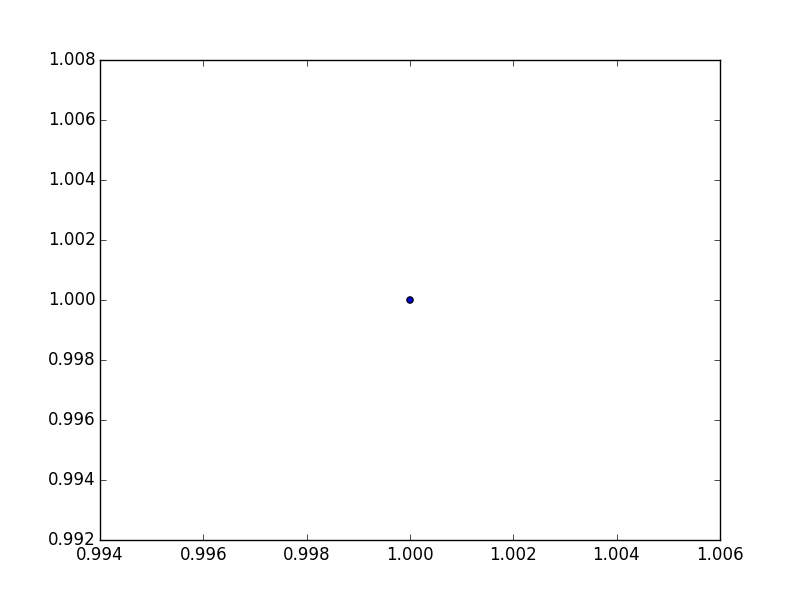
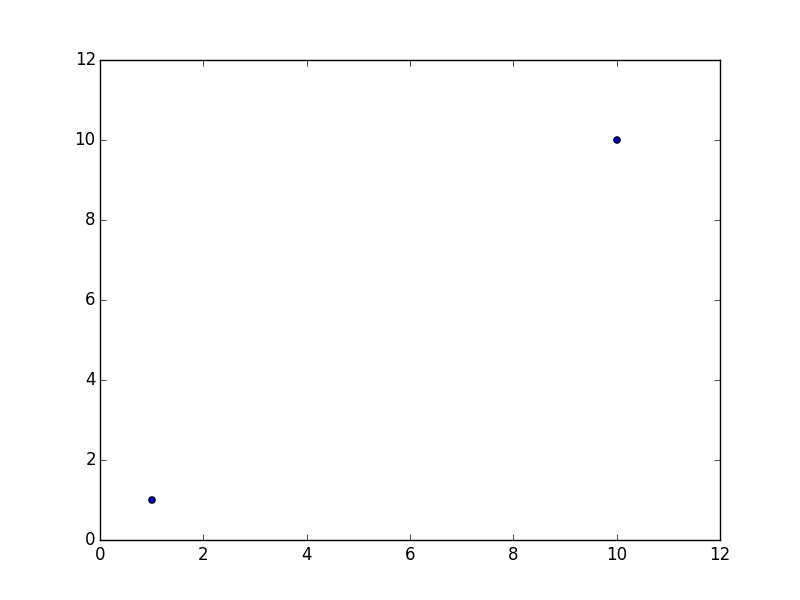
grafica con N n = 10

diff --git a/ev3/gra/gd.py b/ev3/gra/gd.py
@@ -5,8 +5,8 @@ import numpy as np
 
 ax = pl.gca()
 n = 10 ##1024
-x = 1 ##np.random.normal() ##(0,1,n)
-y = 1 ##np.random.normal() ##(0,1,n)
+x = (1,n) ##np.random.normal() ##(0,1,n)
+y = (1,n) ##np.random.normal() ##(0,1,n)
 
 pl.scatter(x,y)
 pl.savefig('gd.jpg')
